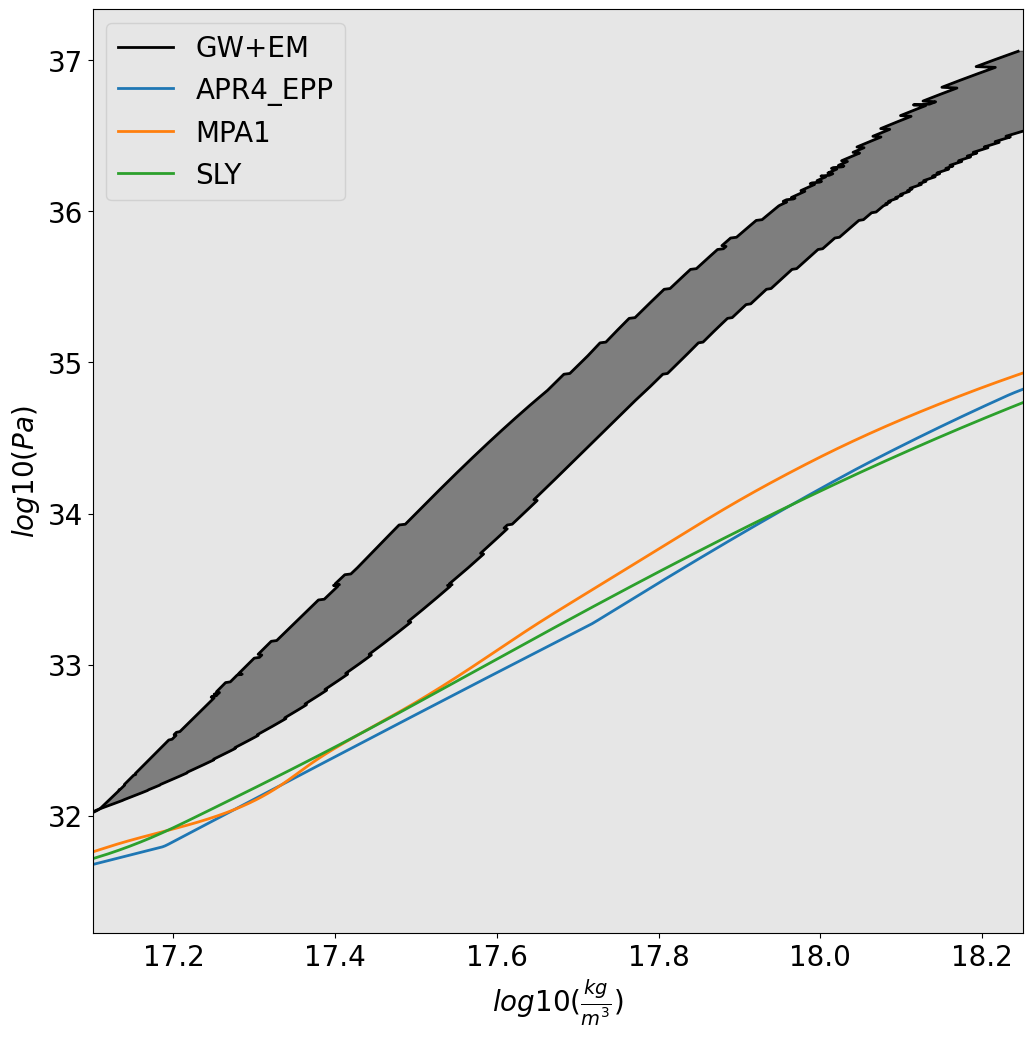
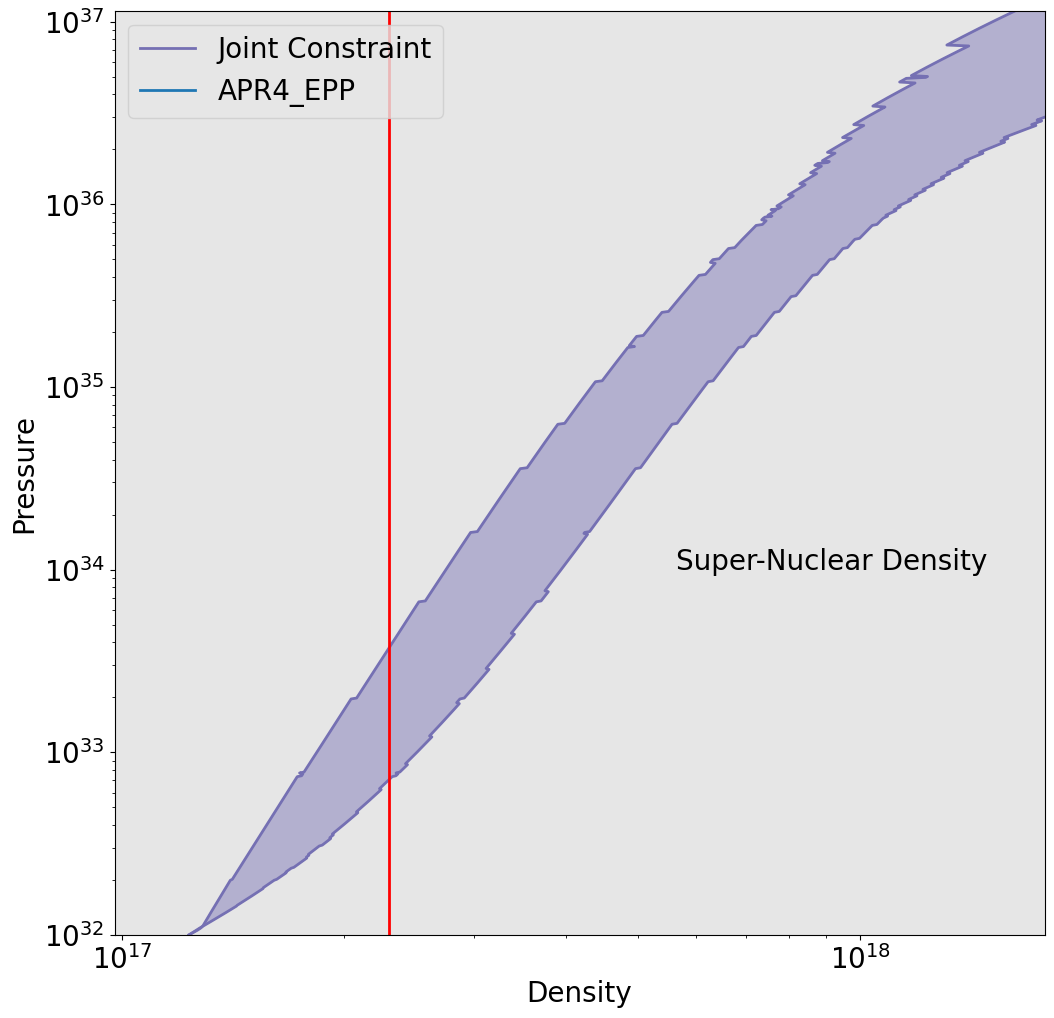
Final CASABONA plot revisions 10

Changed region(s): [[0.0, 0.0, 1.0, 1.0]]

diff --git a/joint_inference/development/SpringPresentation.py b/joint_inference/development/SpringPresentation.py
@@ -56,22 +56,27 @@ def overlap_namedEoS_constraint_p_rho(EoS_Names):
     pl.rc('ytick', direction='out', color='black', labelcolor='black')
     pl.rc('lines', linewidth=2)
 
-    File = "run_data/8th_cutoff_plotting/spectral_p_vs_rho_cutoff_W100_S10000_GW170817_J0030_hierarchical_confidence.txt"
-    label = "GW+EM"
-    color = "#000000"
+    File = "run_data/8th_cutoff_plotting/spectral_p_vs_rho_cutoff_W100_S10000_J0030_confidence.txt"
+    label = "Joint Constraint"
+    color = "#7570b3"
     logp_grid, lower_bound, median, upper_bound = np.loadtxt(File).T
-    lower_bound, upper_bound = np.log10(lower_bound), np.log10(upper_bound)
+
     ax1 = pl.gca()
+    logp_grid = 10**logp_grid
+    pl.xscale("log")
+    pl.yscale("log")
     pl.plot(lower_bound, logp_grid, label=label, color=color)
     pl.plot(upper_bound, logp_grid, color=color)
     ax1.fill_betweenx(logp_grid, lower_bound, x2=upper_bound, color=color, alpha=0.45)
 
-    N = 1000
-    min_log_pressure = 31.5 # Adjusted from 31.7 for overlap plot
-    max_log_pressure = 35.0
+    pl.vlines(x=2.3*10**17,ymin=min(logp_grid),ymax=max(logp_grid),color="red")
+    pl.text(10**17.75,10**34,"Super-Nuclear Density",fontsize=20)
 
-    logp_grid = np.linspace(min_log_pressure, max_log_pressure, N+1)
-    logp_grid = logp_grid[:-1] # last val is max log pressure. For spectral method, density computation at this pressure causes a runtime error
+    N = 1000
+    #min_log_pressure = 31.5 # Adjusted from 31.7 for overlap plot
+    #max_log_pressure = 35.0
+    #logp_grid = np.linspace(min_log_pressure, max_log_pressure, N+1)
+    #logp_grid = logp_grid[:-1] # last val is max log pressure. For spectral method, density computation at this pressure causes a runtime error
 
     for EoS_Name in EoS_Names:
 
@@ -81,16 +86,17 @@ def overlap_namedEoS_constraint_p_rho(EoS_Names):
 
             eos = lalsim.SimNeutronStarEOSByName(EoS_Name)
             try:
-                density_grid.append(lalsim.SimNeutronStarEOSEnergyDensityOfPressure(10**lp, eos)/lal.C_SI**2)
+                density_grid.append(lalsim.SimNeutronStarEOSEnergyDensityOfPressure(lp, eos)/lal.C_SI**2)
                 safety_logp_grid.append(lp)
             except RuntimeError: 
                 continue # ran into runtime error at some point due to energydensityofpressure function
 
         pl.plot(np.log10(density_grid), safety_logp_grid, label=EoS_Name)
 
-    pl.xlim([17.1, 18.25])
-    pl.xlabel(r'$log10(\frac{kg}{m^3})$')
-    pl.ylabel(r'$log10(Pa)$')
+    pl.xlim([10**16.99, 10**18.25])
+    pl.ylim([min(logp_grid), max(logp_grid)])
+    pl.xlabel('Density')
+    pl.ylabel('Pressure')
     pl.legend()
     pl.savefig("plots/overlap_namedEoS_constraint_p_rho.png", bbox_inches='tight')
 

diff --git a/joint_inference/development/confidence_interval.py b/joint_inference/development/confidence_interval.py
@@ -32,7 +32,6 @@ def plot_intervals(outputfiles):
             logp_grid, lower_bound, median, upper_bound = np.loadtxt(File).T
 
             ax1 = pl.gca()
-
             logp_grid = 10**logp_grid
             pl.xscale("log")
             pl.yscale("log")
